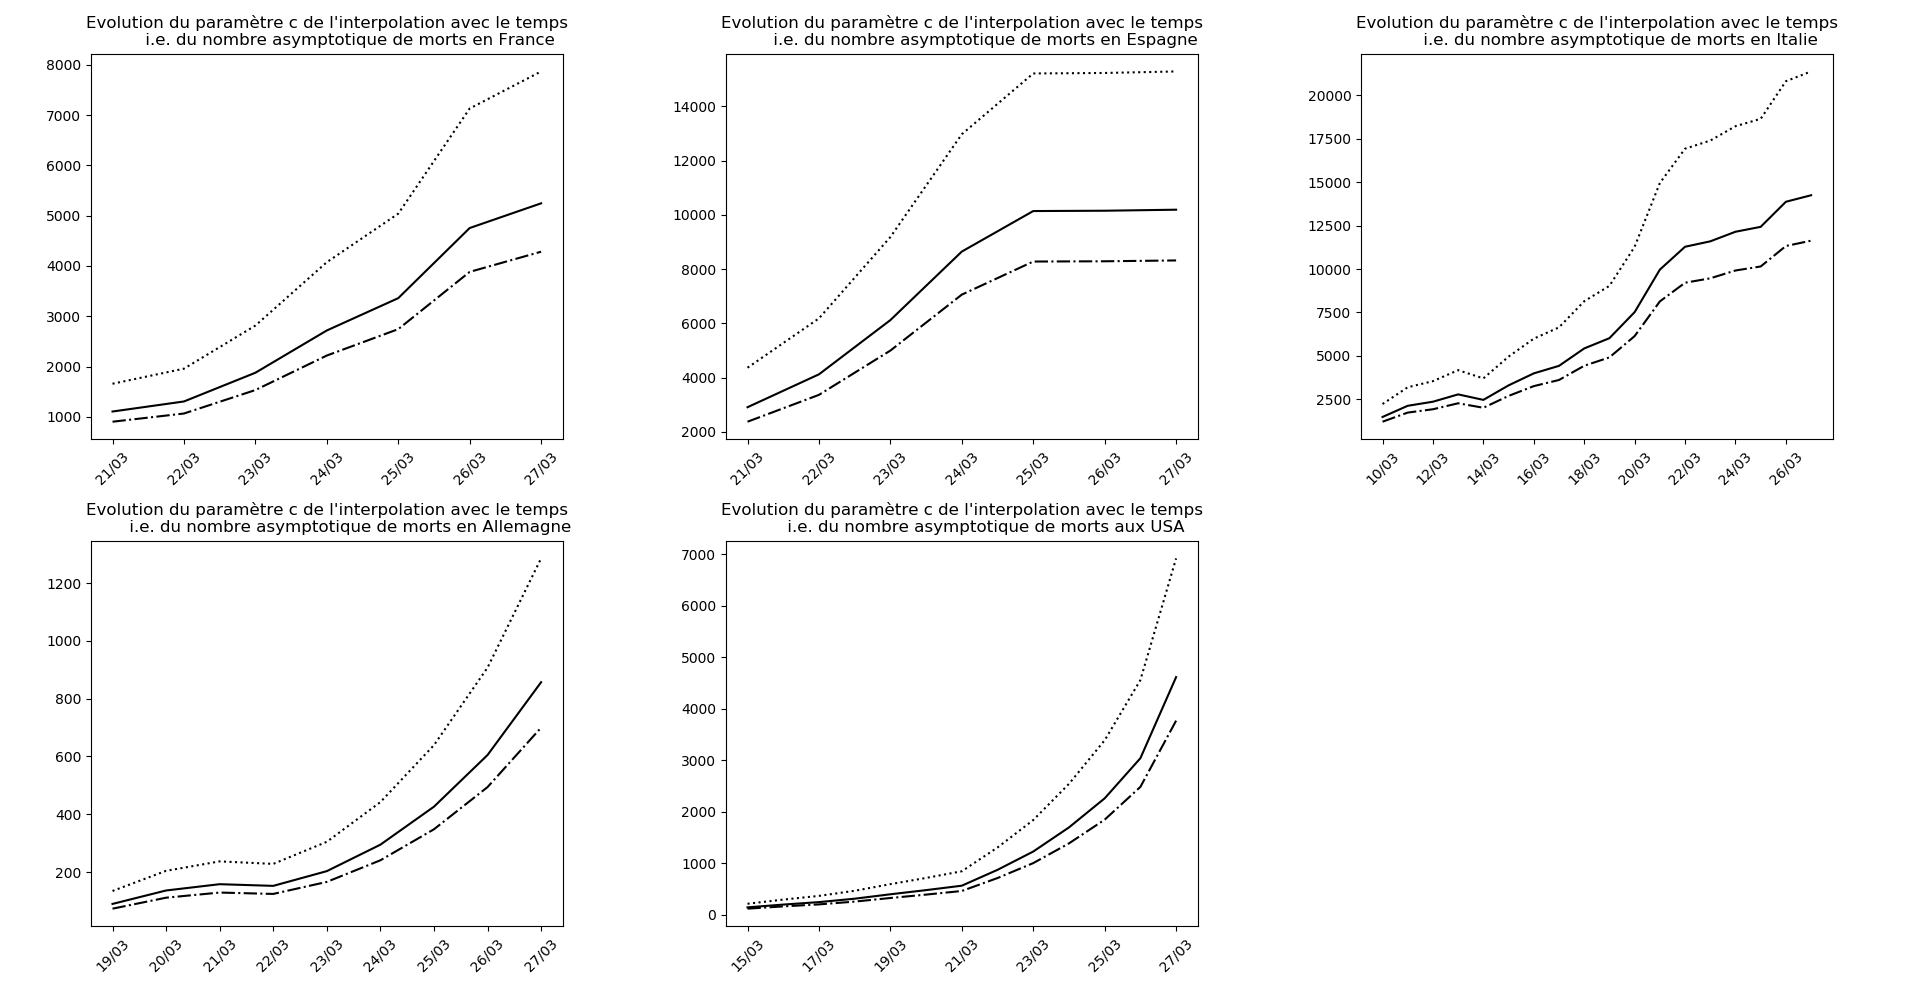
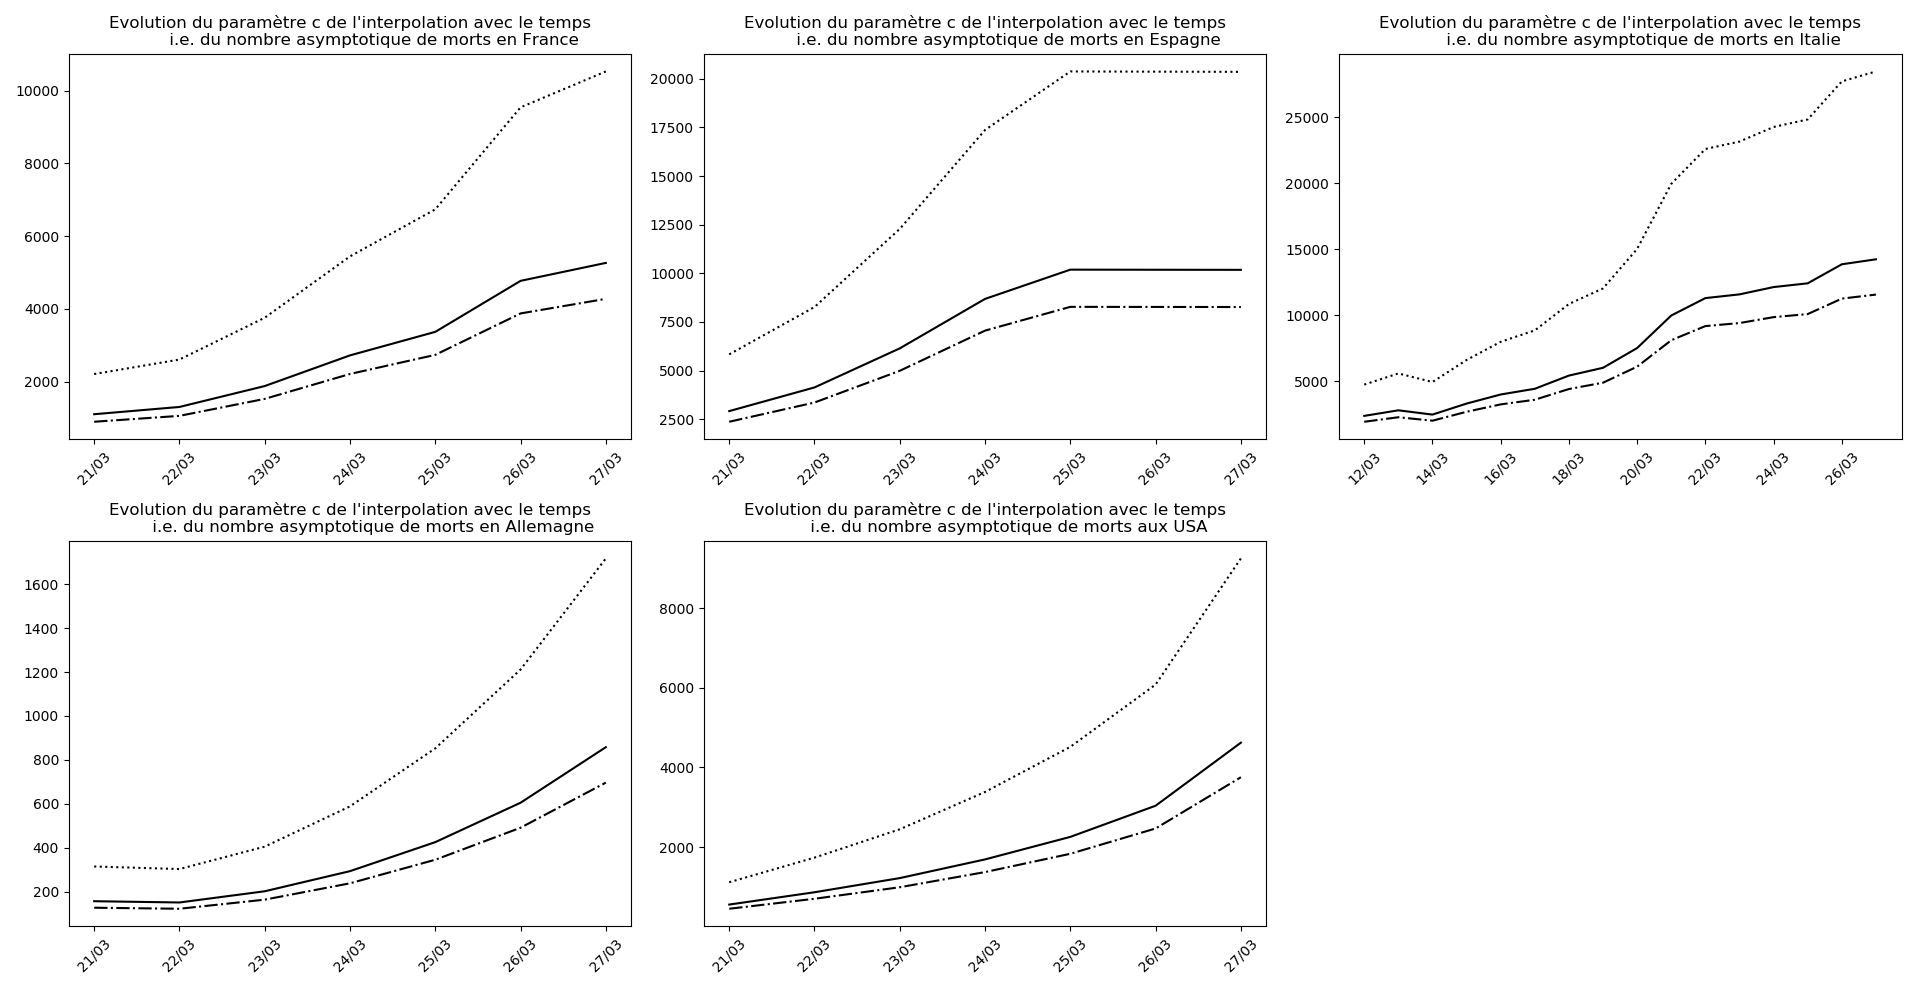
CoViD-19

diff --git a/_posts/2020-03-28-covid19.md b/_posts/2020-03-28-covid19.md
@@ -182,10 +182,9 @@ def interpSigm(data, fin, S0=0, mxS=1e6, err=1.5, prec=1e-3,method = 1):
         Y0 = np.log(somcum/(c-somcum))
         a,b = reglin(X,Y0,(somcum*(1-somcum/c))**e)
     if method:
-        am,bm,cm = a,b,c
-        c = cm*err
-        Y0 = np.log(somcum/(c-somcum))
-        a,b = reglin(X,Y0,(somcum*(1-somcum/c))**e)
+        cm = max(c/err**0.3,max(somcum)+1)
+        Y0 = np.log(somcum/(cm-somcum))
+        am,bm = reglin(X,Y0,(somcum*(1-somcum/cm))**e)
     
         cM = c*err
         Y0 = np.log(somcum/(cM-somcum))
